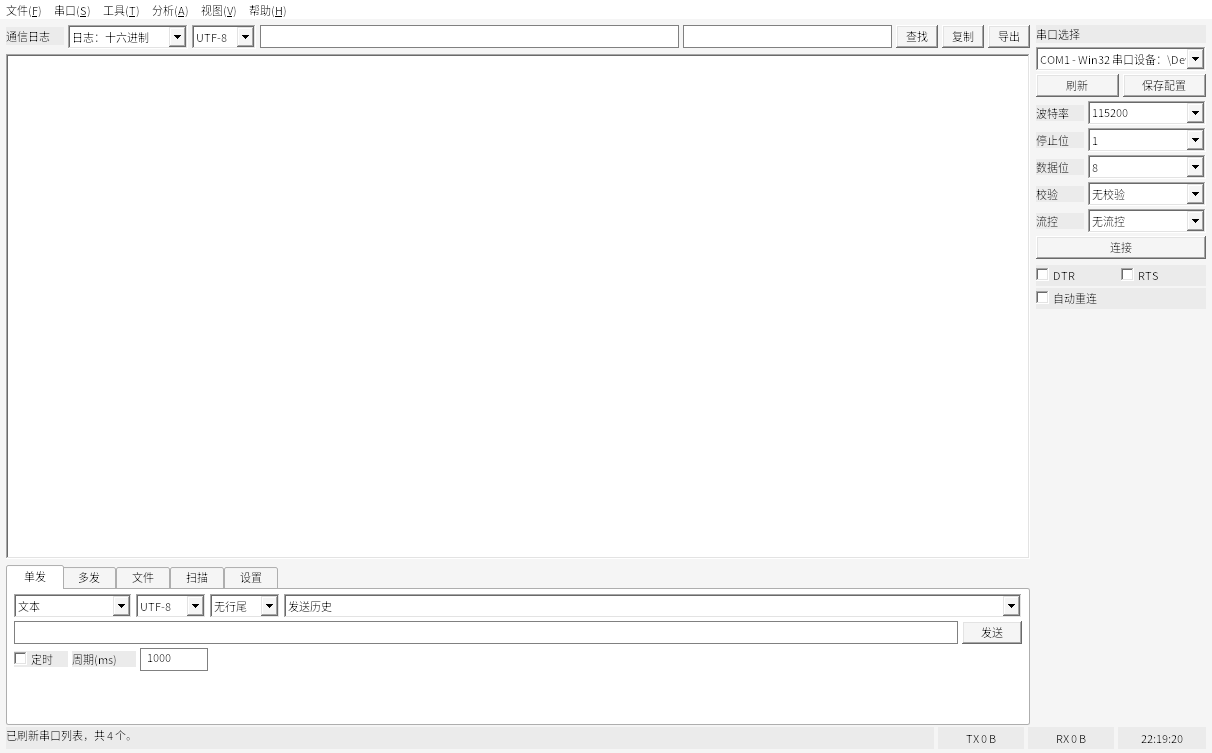
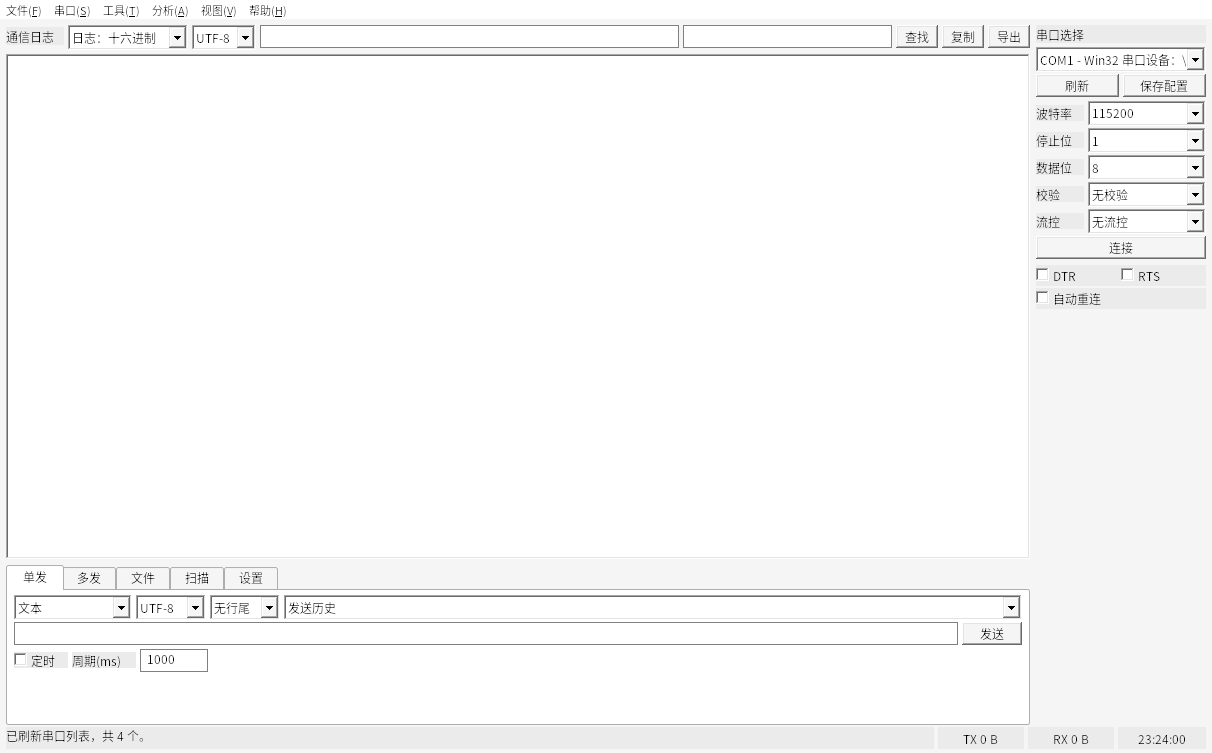
fix: improve native Chinese text clarity

diff --git a/src/win32/main_window.cpp b/src/win32/main_window.cpp
@@ -56,6 +56,7 @@ constexpr int kFileSendChunkBytes = 1024;
 constexpr std::size_t kDefaultLogVisibleChars = 350000;
 constexpr COLORREF kFormBackgroundColor = RGB(235, 235, 235);
 constexpr COLORREF kInputBorderColor = RGB(128, 128, 128);
+constexpr COLORREF kPlaceholderTextColor = RGB(92, 92, 92);
 constexpr UINT_PTR kInputBorderSubclassId = 1001;
 
 const wchar_t* tx(T id) {
@@ -287,19 +288,36 @@ NativeUiMetrics nativeUiMetricsForSize(int width, int height) {
 }
 
 HFONT createClassicUiFont() {
+    // SimSun's 9pt grid-fitted Chinese glyphs are clearer than forced ClearType YaHei in dense Win32 forms.
+    HFONT font = CreateFontW(
+        -12,
+        0,
+        0,
+        0,
+        FW_NORMAL,
+        FALSE,
+        FALSE,
+        FALSE,
+        GB2312_CHARSET,
+        OUT_DEFAULT_PRECIS,
+        CLIP_DEFAULT_PRECIS,
+        DEFAULT_QUALITY,
+        DEFAULT_PITCH | FF_DONTCARE,
+        L"SimSun");
+    if (font != nullptr) {
+        return font;
+    }
+
     NONCLIENTMETRICSW metrics = {};
     metrics.cbSize = sizeof(metrics);
     if (SystemParametersInfoW(SPI_GETNONCLIENTMETRICS, metrics.cbSize, &metrics, 0) != FALSE) {
-        LOGFONTW font = metrics.lfMessageFont;
-        if (font.lfHeight == 0 || font.lfHeight < -12) {
-            font.lfHeight = -12;
-        } else if (font.lfHeight > 12) {
-            font.lfHeight = 12;
-        }
-        font.lfWidth = 0;
-        font.lfWeight = FW_NORMAL;
-        font.lfQuality = CLEARTYPE_QUALITY;
-        return CreateFontIndirectW(&font);
+        LOGFONTW fallback = metrics.lfMessageFont;
+        fallback.lfHeight = -12;
+        fallback.lfWidth = 0;
+        fallback.lfWeight = FW_NORMAL;
+        fallback.lfQuality = DEFAULT_QUALITY;
+        fallback.lfCharSet = DEFAULT_CHARSET;
+        return CreateFontIndirectW(&fallback);
     }
 
     return CreateFontW(
@@ -314,7 +332,7 @@ HFONT createClassicUiFont() {
         DEFAULT_CHARSET,
         OUT_DEFAULT_PRECIS,
         CLIP_DEFAULT_PRECIS,
-        CLEARTYPE_QUALITY,
+        DEFAULT_QUALITY,
         DEFAULT_PITCH | FF_DONTCARE,
         L"MS Shell Dlg 2");
 }
@@ -1409,7 +1427,9 @@ LRESULT NativeMainWindow::handleMessage(UINT message, WPARAM wParam, LPARAM lPar
         HDC dc = reinterpret_cast<HDC>(wParam);
         SetBkColor(dc, GetSysColor(COLOR_WINDOW));
         HWND editControl = reinterpret_cast<HWND>(lParam);
-        if (!IsWindowEnabled(editControl) || analysisPlaceholderActive(editControl)) {
+        if (analysisPlaceholderActive(editControl)) {
+            SetTextColor(dc, kPlaceholderTextColor);
+        } else if (!IsWindowEnabled(editControl)) {
             SetTextColor(dc, GetSysColor(COLOR_GRAYTEXT));
         }
         return reinterpret_cast<LRESULT>(GetSysColorBrush(COLOR_WINDOW));
@@ -1419,7 +1439,7 @@ LRESULT NativeMainWindow::handleMessage(UINT message, WPARAM wParam, LPARAM lPar
         HDC dc = reinterpret_cast<HDC>(wParam);
         if (hasWindowClass(control, L"Edit")) {
             SetBkColor(dc, GetSysColor(COLOR_WINDOW));
-            SetTextColor(dc, GetSysColor(COLOR_GRAYTEXT));
+            SetTextColor(dc, analysisPlaceholderActive(control) ? kPlaceholderTextColor : GetSysColor(COLOR_GRAYTEXT));
             return reinterpret_cast<LRESULT>(GetSysColorBrush(COLOR_WINDOW));
         }
         SetBkColor(dc, kFormBackgroundColor);

diff --git a/docs/windows-native-ui-validation.md b/docs/windows-native-ui-validation.md
@@ -74,6 +74,7 @@ scripts/capture-windows-native-ui-wine.sh
 - 标签页内容区使用浅灰承托，输入框保持白底，整体应接近通信日志工具栏的输入控件层次。
 - 同一行内标签、输入框、下拉框和按钮应在视觉上基线一致，不出现明显上下错位。
 - 标签页内 `EDIT` 输入框应与通信日志的筛选/搜索输入框属于同一视觉层级：白底、清楚边界、足够内边距，不应像普通白色文本块。
+- 标签页标题、页内静态标签和占位提示中文必须清晰可读，不应因小字号、浅灰或强制抗锯齿而显得发虚。
 
 扫描：
 
